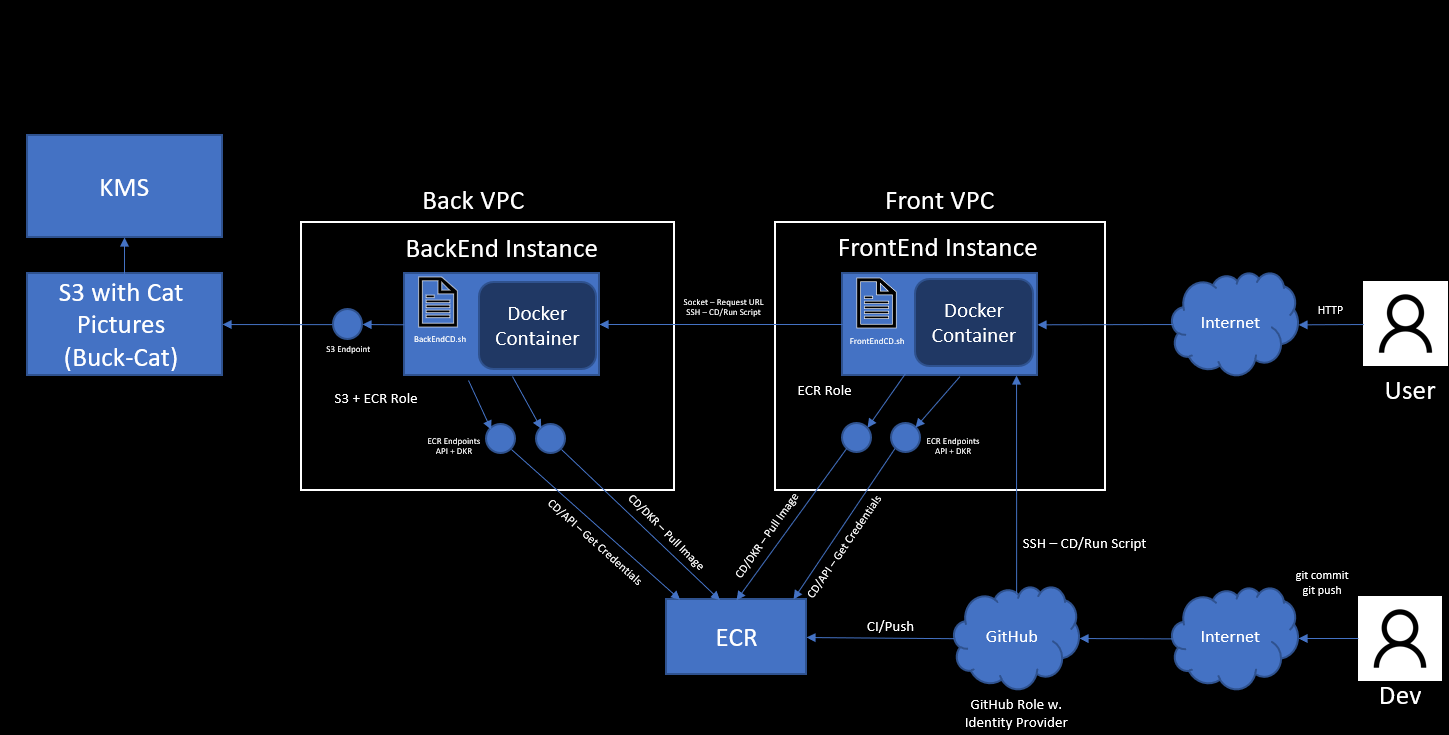
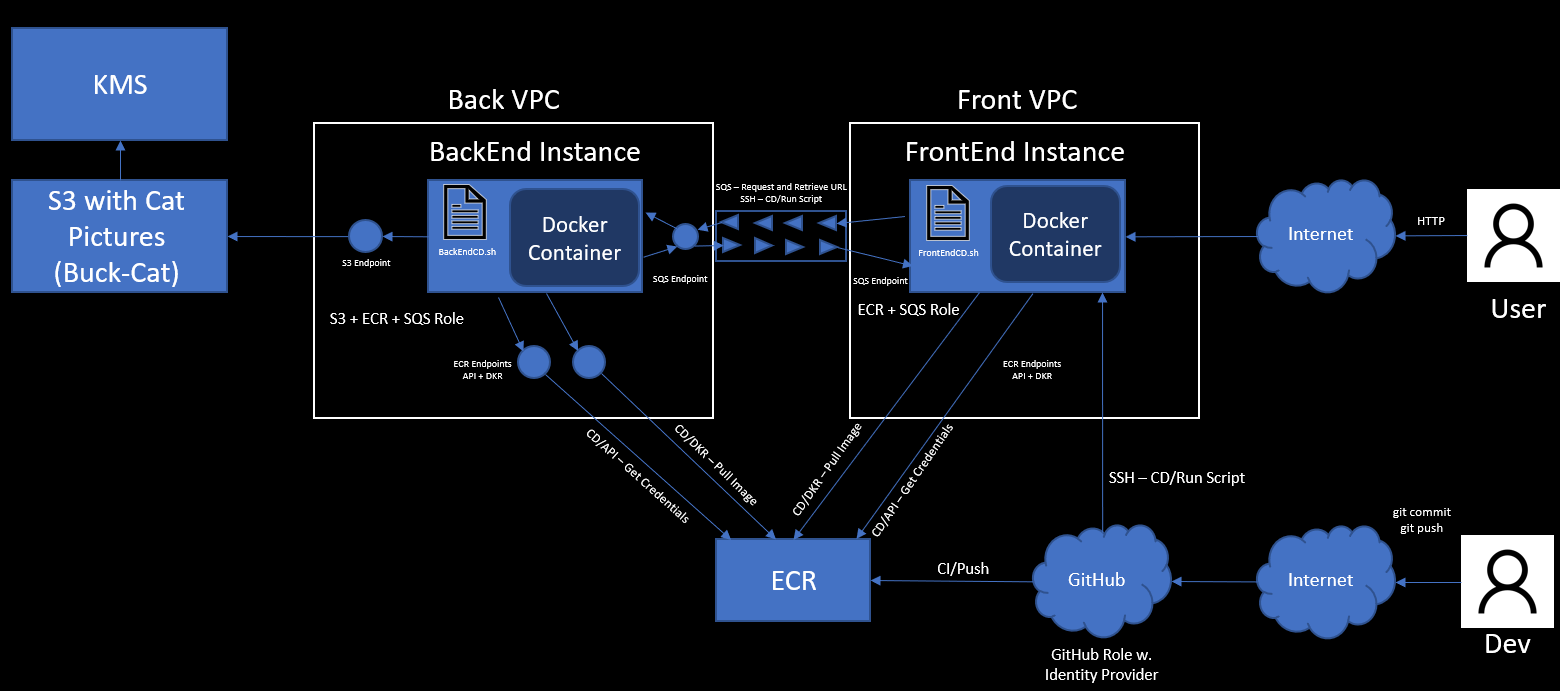
Updated architecture and SQS explanation.

diff --git a/FrontEnd/templates/explanation.html b/FrontEnd/templates/explanation.html
@@ -63,7 +63,7 @@
             </div>
             <div>
                 <p>
-                    Explanation Pending.
+                    This update replaced the use of a socket connection between the FrontEnd and the BackEnd servers with an SQS queue.
                 </p>
             </div>
         </div>
@@ -91,8 +91,8 @@
                     <ul>
                         <li>User reaches the Front-End server from the internet.</li>
                         <li>The Front-End server sends the user this web page.</li>
-                        <li>When the user clicks the "Generate Cat" button, the Front-End server opens a socket to the Back-End server.</li>
-                        <li>The Back-End server accepts the Front-End's connection, asks the S3 Cats Bucket (or Buck-Cat, if you will) for a temporary signed URL, and sends it back to the Front-End through the socket session.</li>
+                        <li>When the user clicks the "Generate Cat" button, the Front-End server sends a request to the Back-End server through SQS.</li>
+                        <li>The Back-End server accepts the Front-End's connection, asks the S3 Cats Bucket (or Buck-Cat, if you will) for a temporary signed URL, and sends it back to the Front-End through the SQS queue.</li>
                         <li>The Front-End server presents the image to the user by using the temporary URL.</li>
                         <li>The images in the Buck-Cat are encrypted with a KMS Key which is held in KMS.</li>
                     </ul>
@@ -122,12 +122,12 @@
                                     <li>Runs a container with an application written in Python, HTML and CSS:
                                         <ul>
                                             <li>Uses Flask Library for running the web application.</li>
-                                            <li>Connects to the Back-End with Python's Socket Library.</li>
+                                            <li>Sends a request to BackEnd through SQS.</li>
                                         </ul>
                                     </li>
                                     <li>Iterates through how many cats were watched and goes back to the start.</li>
                                     <li>Sends to the Back-End Server which iteration of a cat to get to the URL for.</li>
-                                    <li>Is within a Front-End VPC (Virtual Private Cloud) that only allows HTTP inbound traffic front the internet and the socket's inbound and outbound traffic towards the Back-End.</li>
+                                    <li>Is within a Front-End VPC (Virtual Private Cloud) that only allows HTTP/HTTPS inbound traffic front the internet.</li>
                                 </ul>
                             </td>
                             <td>
@@ -137,7 +137,7 @@
                                     <li>Runs a container with an application written in Python:</li>
                                     <ul>
                                         <li>Uses the Boto3 Library (AWS SDK for Python).</li>
-                                        <li>Connects to the Front-End with Python's Socket Library.</li>
+                                        <li>Sends URLs to FrontEnd with SQS.</li>
                                     </ul>
                                     <li>Iterates over the items in the Buck-Cat and lists their names.</li>
                                     <li>Gets a request to get a certain iteration of a cat front the Front-End.</li>
@@ -301,6 +301,7 @@
                         <li>The project now has CI/CD capabilities, which makes development much more comfortable.</li>
                         <li>The entire project, from initial planning to the first deployment, was done within a week (Friday, 24/2/23 - Friday, 3/3/23).</li>
                         <li>The addition of the CI/CD process, was done within five days (Tuesday, 21/3/23 - Saturday, 25/3/23).</li>
+                        <li>The addition of the SQS queue took less than a day.</li>
                         <li>
                             This is the second version of this project, considering other priorities, time, and AWS resources pricing, this project might expand as more of my knowledge is passed from Azure to AWS.
                         </li>
